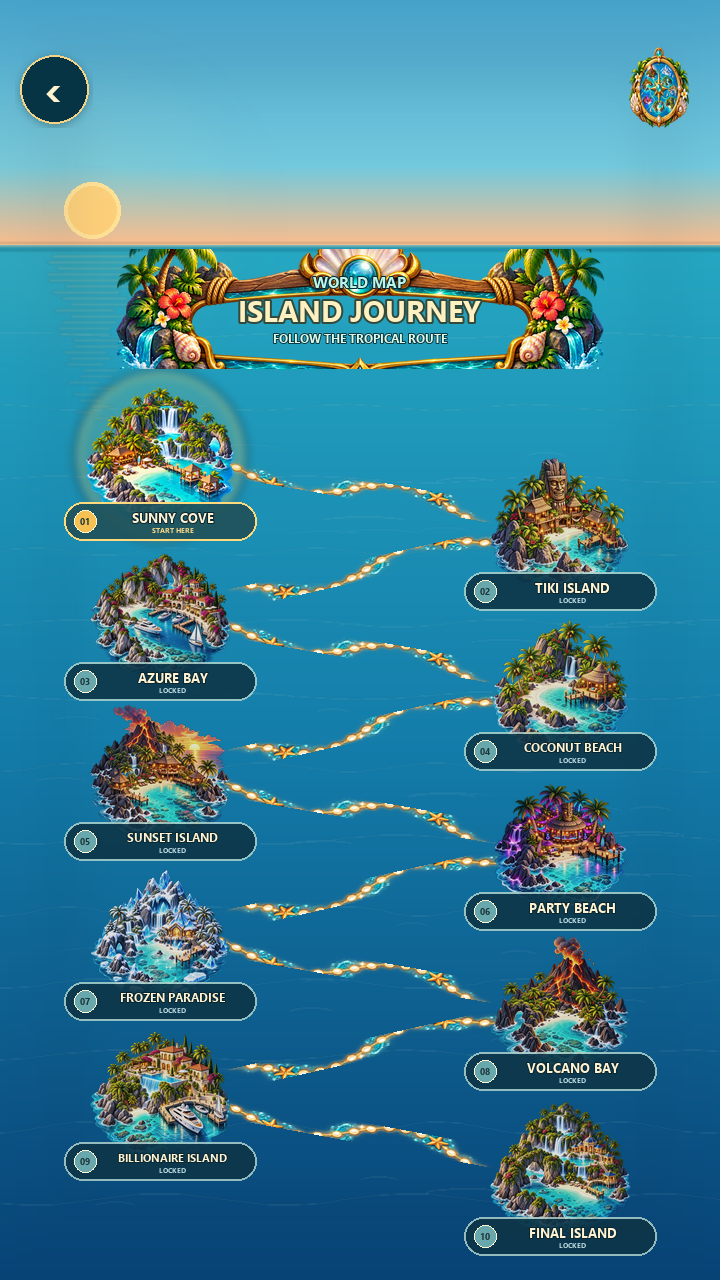
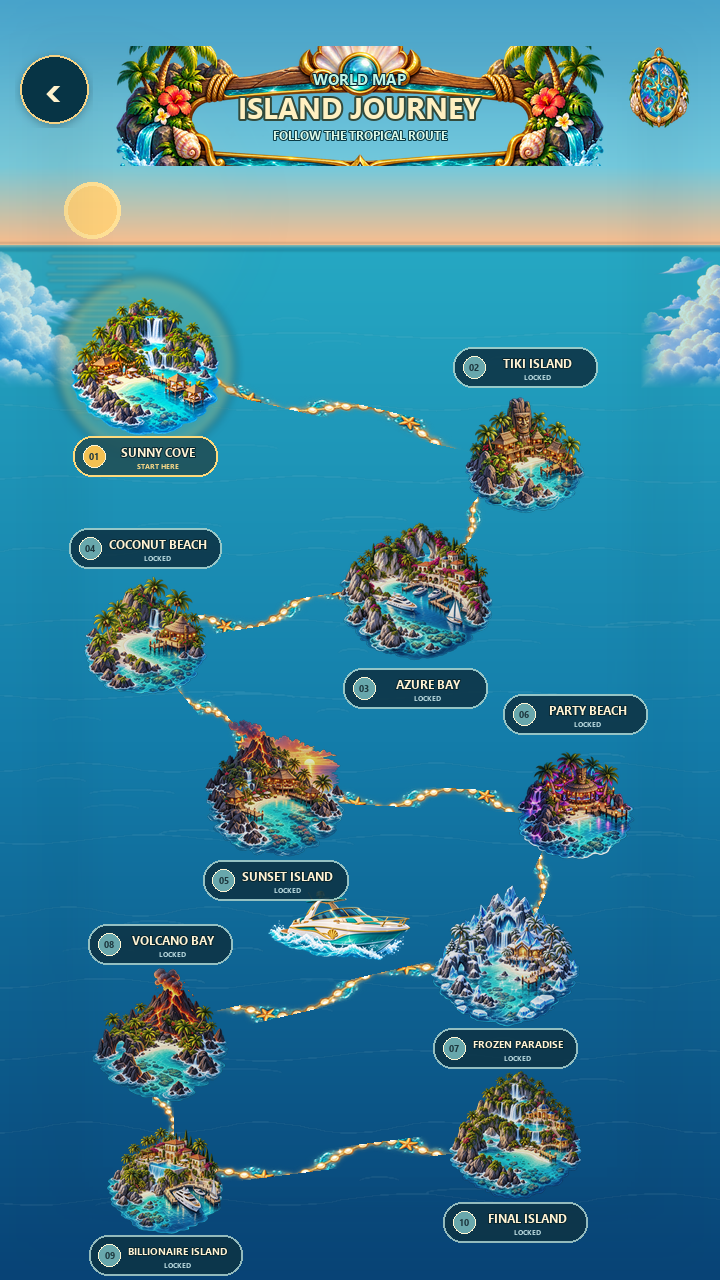
Revise BCM-M21 owner World Map preview composition

diff --git a/coordination/sessions/BCM-M21-WORLD-MAP-COMPOSITE-NAV-R01/evidence/owner-preview-v02/render_world_map_owner_preview_v02.py b/coordination/sessions/BCM-M21-WORLD-MAP-COMPOSITE-NAV-R01/evidence/owner-preview-v02/render_world_map_owner_preview_v02.py
@@ -1,24 +1,38 @@
 from __future__ import annotations
 import json, math
 from pathlib import Path
-from PIL import Image, ImageDraw, ImageFont, ImageEnhance, ImageFilter
+from PIL import Image, ImageChops, ImageDraw, ImageFont, ImageEnhance, ImageFilter
 
 ROOT = Path(__file__).resolve().parents[5]
 ASSETS = ROOT / 'assets' / 'ui_assets' / 'campaign' / 'world_map'
 OUT = Path(__file__).resolve().parent
 BG = ASSETS / 'world_map_ocean_background_owner_v01.png'
 ISLANDS = [
-    ('sunny_cove', 'Sunny Cove', 'sunny_cove.png', (160, 455), 'CURRENT'),
-    ('tiki_island', 'Tiki Island', 'tiki_island.png', (560, 525), 'LOCKED'),
-    ('azure_bay', 'Azure Bay', 'azure_bay.png', (160, 615), 'LOCKED'),
-    ('coconut_beach', 'Coconut Beach', 'coconut_beach.png', (560, 685), 'LOCKED'),
-    ('sunset_island', 'Sunset Island', 'sunset_island.png', (160, 775), 'LOCKED'),
-    ('party_beach', 'Party Beach', 'party_beach.png', (560, 845), 'LOCKED'),
-    ('frozen_paradise', 'Frozen Paradise', 'frozen_paradise.png', (160, 935), 'LOCKED'),
-    ('volcano_bay', 'Volcano Bay', 'volcano_bay.png', (560, 1005), 'LOCKED'),
-    ('billionaire_island', 'Billionaire Island', 'billionaire_island.png', (160, 1095), 'LOCKED'),
-    ('final_island', 'Final Island', 'final_island.png', (560, 1170), 'LOCKED'),
+    # Centers and sizes deliberately vary to follow the owner's organic
+    # reference rather than forming repeated rows or columns.
+    ('sunny_cove', 'Sunny Cove', 'sunny_cove.png', (145, 365), 150, 'CURRENT'),
+    ('tiki_island', 'Tiki Island', 'tiki_island.png', (525, 455), 122, 'LOCKED'),
+    ('azure_bay', 'Azure Bay', 'azure_bay.png', (415, 590), 156, 'LOCKED'),
+    ('coconut_beach', 'Coconut Beach', 'coconut_beach.png', (145, 635), 128, 'LOCKED'),
+    ('sunset_island', 'Sunset Island', 'sunset_island.png', (275, 790), 142, 'LOCKED'),
+    ('party_beach', 'Party Beach', 'party_beach.png', (575, 805), 124, 'LOCKED'),
+    ('frozen_paradise', 'Frozen Paradise', 'frozen_paradise.png', (505, 955), 152, 'LOCKED'),
+    ('volcano_bay', 'Volcano Bay', 'volcano_bay.png', (160, 1035), 138, 'LOCKED'),
+    ('billionaire_island', 'Billionaire Island', 'billionaire_island.png', (165, 1180), 118, 'LOCKED'),
+    ('final_island', 'Final Island', 'final_island.png', (515, 1135), 134, 'LOCKED'),
 ]
+LABEL_CENTERS = {
+    'sunny_cove': (145, 456),
+    'tiki_island': (525, 367),
+    'azure_bay': (415, 688),
+    'coconut_beach': (145, 548),
+    'sunset_island': (275, 880),
+    'party_beach': (575, 714),
+    'frozen_paradise': (505, 1048),
+    'volcano_bay': (160, 944),
+    'billionaire_island': (165, 1255),
+    'final_island': (515, 1222),
+}
 W, H = 720, 1280
 FONT_REG = 'C:/Windows/Fonts/segoeui.ttf'
 FONT_BOLD = 'C:/Windows/Fonts/segoeuib.ttf'
@@ -33,9 +47,38 @@ def alpha_paste(dst, src, center):
     x, y = center
     dst.alpha_composite(src, (round(x-src.width/2), round(y-src.height/2)))
 
+def set_opacity(image, factor):
+    alpha = image.getchannel('A').point(lambda value: round(value * factor))
+    image.putalpha(alpha)
+    return image
+
+def feather_edges(image, extent=24):
+    width, height = image.size
+    mask = Image.new('L', image.size)
+    mask.putdata([
+        round(255 * min(1.0, x / extent, (width - 1 - x) / extent,
+                        y / extent, (height - 1 - y) / extent))
+        for y in range(height) for x in range(width)
+    ])
+    image.putalpha(ImageChops.multiply(image.getchannel('A'), mask))
+    return image
+
 canvas = Image.open(BG).convert('RGBA')
 if canvas.size != (W, H):
     raise SystemExit(f'Owner background dimensions are {canvas.size}, expected {(W,H)}')
+
+# Add two subdued cloud banks around the outer horizon and an existing boat
+# in open water. The approved sky/ocean source remains the unmodified base.
+cloud_back = Image.open(ASSETS / 'world_clouds_back.png').convert('RGBA')
+cloud_back = cloud_back.crop((0,8,126,154)).resize((126,146), Image.Resampling.LANCZOS)
+alpha_paste(canvas, set_opacity(feather_edges(cloud_back), 0.74), (23,316))
+cloud_front = Image.open(ASSETS / 'world_clouds_front.png').convert('RGBA')
+cloud_front = cloud_front.crop((205,12,320,158)).resize((115,146), Image.Resampling.LANCZOS)
+alpha_paste(canvas, set_opacity(feather_edges(cloud_front), 0.74), (698,316))
+
+boat = Image.open(ASSETS / 'world_map_boat.png').convert('RGBA')
+boat = boat.resize((150,84), Image.Resampling.LANCZOS)
+alpha_paste(canvas, boat, (340,925))
 
 # Subtle darkened route underlay follows the island sequence; the supplied
 # beaded route asset supplies the visible gold-and-aqua detail.
@@ -49,7 +92,7 @@ for a, b in zip(ISLANDS, ISLANDS[1:]):
     seg = seg.rotate(angle, resample=Image.Resampling.BICUBIC, expand=True)
     alpha_paste(canvas, seg, ((p1[0]+p2[0])/2, (p1[1]+p2[1])/2))
 
-# Header ornaments fit below the horizon and leave the owner's sky/sun open.
+# Header ornaments and title frame stay in the sky, above the ocean horizon.
 draw = ImageDraw.Draw(canvas, 'RGBA')
 # restrained back affordance
 shadow = Image.new('RGBA', (78,78), (0,0,0,0))
@@ -66,25 +109,26 @@ alpha_paste(canvas, compass, (659,88))
 
 # Existing tropical title plaque; all copy remains dynamic-looking preview text.
 title = Image.open(ASSETS / 'world_map_title_panel.png').convert('RGBA').resize((500,120), Image.Resampling.LANCZOS)
-alpha_paste(canvas, title, (360,309))
+alpha_paste(canvas, title, (360,106))
 draw = ImageDraw.Draw(canvas, 'RGBA')
-center_text(draw, (360,281), 'WORLD MAP', font(15, True), (191,245,231,255), 1, (6,42,55,210))
-center_text(draw, (360,310), 'ISLAND JOURNEY', font(29, True), (255,240,193,255), 2, (49,74,60,230))
-center_text(draw, (360,338), 'FOLLOW THE TROPICAL ROUTE', font(12, True), (221,249,232,255), 1, (8,57,68,225))
+center_text(draw, (360,78), 'WORLD MAP', font(15, True), (191,245,231,255), 1, (6,42,55,210))
+center_text(draw, (360,107), 'ISLAND JOURNEY', font(29, True), (255,240,193,255), 2, (49,74,60,230))
+center_text(draw, (360,135), 'FOLLOW THE TROPICAL ROUTE', font(12, True), (221,249,232,255), 1, (8,57,68,225))
 
 # Draw all route markers and islands over the route. Sunny Cove receives a
 # warm halo and brighter treatment; the future islands remain fully legible.
 layout = []
-for idx, (island_id, name, filename, center, state) in enumerate(ISLANDS, 1):
+for idx, (island_id, name, filename, center, size, state) in enumerate(ISLANDS, 1):
     x, y = center
     if idx == 1:
-        halo = Image.new('RGBA', (210,210), (0,0,0,0))
+        halo_size = size + 50
+        halo = Image.new('RGBA', (halo_size,halo_size), (0,0,0,0))
         hd = ImageDraw.Draw(halo)
-        hd.ellipse((20,20,190,190), fill=(255,199,67,34), outline=(255,220,130,150), width=5)
+        inset = 12
+        hd.ellipse((inset,inset,halo_size-inset,halo_size-inset), fill=(255,199,67,34), outline=(255,220,130,150), width=5)
         halo = halo.filter(ImageFilter.GaussianBlur(5))
         alpha_paste(canvas, halo, center)
     sprite = Image.open(ASSETS / filename).convert('RGBA')
-    size = 150 if idx == 1 else 142
     sprite = sprite.resize((size,size), Image.Resampling.LANCZOS)
     if idx > 1:
         rgb = Image.new('RGB', sprite.size, (16,63,86))
@@ -94,10 +138,12 @@ for idx, (island_id, name, filename, center, state) in enumerate(ISLANDS, 1):
         sprite.putdata([(*rgb.getpixel((i % size, i // size)), sprite.getchannel('A').getpixel((i % size, i // size))) for i in range(size*size)])
     alpha_paste(canvas, sprite, center)
 
-    # Compact navy/gold caption tab sits on the transparent lower island edge.
-    label_w, label_h = 190, 36
+    # Caption size follows each name; placement stays just below the island.
+    label_h = 38
+    label_font = font(12 if len(name) < 14 else 10, True)
+    label_w = min(188, max(142, round(ImageDraw.Draw(canvas).textlength(name.upper(), font=label_font) + 52)))
     lx = max(label_w//2+8, min(W-label_w//2-8, x))
-    ly = y + 66
+    lx, ly = LABEL_CENTERS[island_id]
     tab = Image.new('RGBA', (label_w+12,label_h+12), (0,0,0,0))
     td = ImageDraw.Draw(tab)
     fill = (31,82,91,237) if idx == 1 else (13,52,70,228)
@@ -110,15 +156,11 @@ for idx, (island_id, name, filename, center, state) in enumerate(ISLANDS, 1):
     draw.ellipse((med_x-11,ly-11,med_x+11,ly+11), fill=(244,193,82,255) if idx==1 else (104,167,172,255), outline=(255,246,211,220), width=1)
     center_text(draw, (med_x,ly), f'{idx:02}', font(9,True), (28,54,61,255))
     label = name.upper()
-    if len(label) > 16:
-        ft = font(11, True)
-    elif len(label) > 12:
-        ft = font(12, True)
-    else:
-        ft = font(13, True)
+    ft = label_font
     text_x = lx + 13
     center_text(draw, (text_x,ly-4), label, ft, (255,242,211,255), 1, (7,38,48,255))
-    center_text(draw, (text_x,ly+9), 'START HERE' if idx==1 else 'CURRENT' if state=='CURRENT' else 'LOCKED', font(7,True), (255,219,135,255) if idx==1 else (187,219,224,255))
+    status = 'START HERE' if idx == 1 else 'LOCKED'
+    center_text(draw, (text_x,ly+10), status, font(7,True), (255,219,135,255) if idx == 1 else (187,219,224,255))
 
     layout.append({
         'island_id': island_id,
@@ -126,6 +168,7 @@ for idx, (island_id, name, filename, center, state) in enumerate(ISLANDS, 1):
         'preview_center': {'x': x, 'y': y},
         'rendered_size': {'width': size, 'height': size},
         'label_center': {'x': round(lx), 'y': round(ly)},
+        'label_size': {'width': label_w + 2, 'height': label_h + 2},
         'route_anchor': {'x': x, 'y': y},
         'representative_state': state,
     })
@@ -133,10 +176,16 @@ for idx, (island_id, name, filename, center, state) in enumerate(ISLANDS, 1):
 out_png = OUT / 'WORLD_MAP_OWNER_PREVIEW_V02.png'
 canvas.convert('RGB').save(out_png, format='PNG', optimize=True)
 layout_doc = {
-    'artifact': 'BCM-M21-001 owner-first visual preview V02',
+    'artifact': 'BCM-M21-001 owner-first visual preview V02, owner-directed composition revision',
     'canvas': {'width': W, 'height': H},
     'background_source': 'assets/ui_assets/campaign/world_map/world_map_ocean_background_owner_v01.png',
     'background_used_without_pixel_edits': True,
+    'composition_reference': 'assets/ui_assets/campaign/world_map/world_map_background.png (layout guidance only)',
+    'decorative_assets': [
+        'assets/ui_assets/campaign/world_map/world_clouds_back.png',
+        'assets/ui_assets/campaign/world_map/world_clouds_front.png',
+        'assets/ui_assets/campaign/world_map/world_map_boat.png',
+    ],
     'island_order': [item[0] for item in ISLANDS],
     'islands': layout,
     'preview_only_not_production_authority': True,
